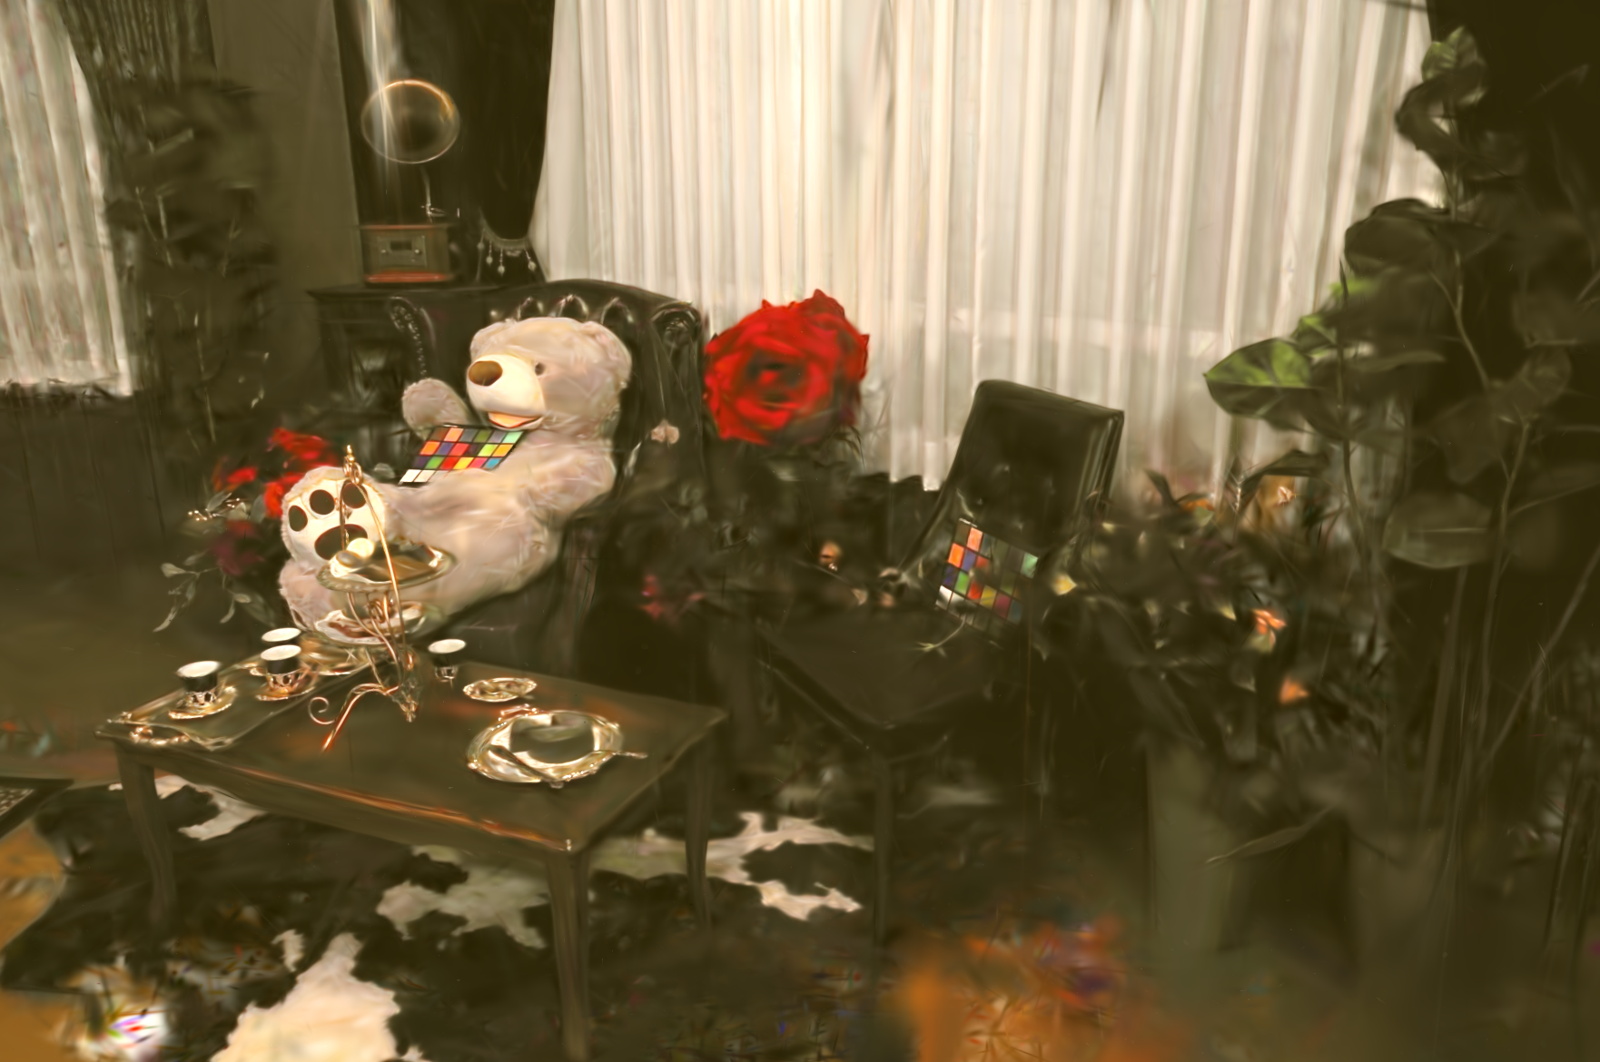
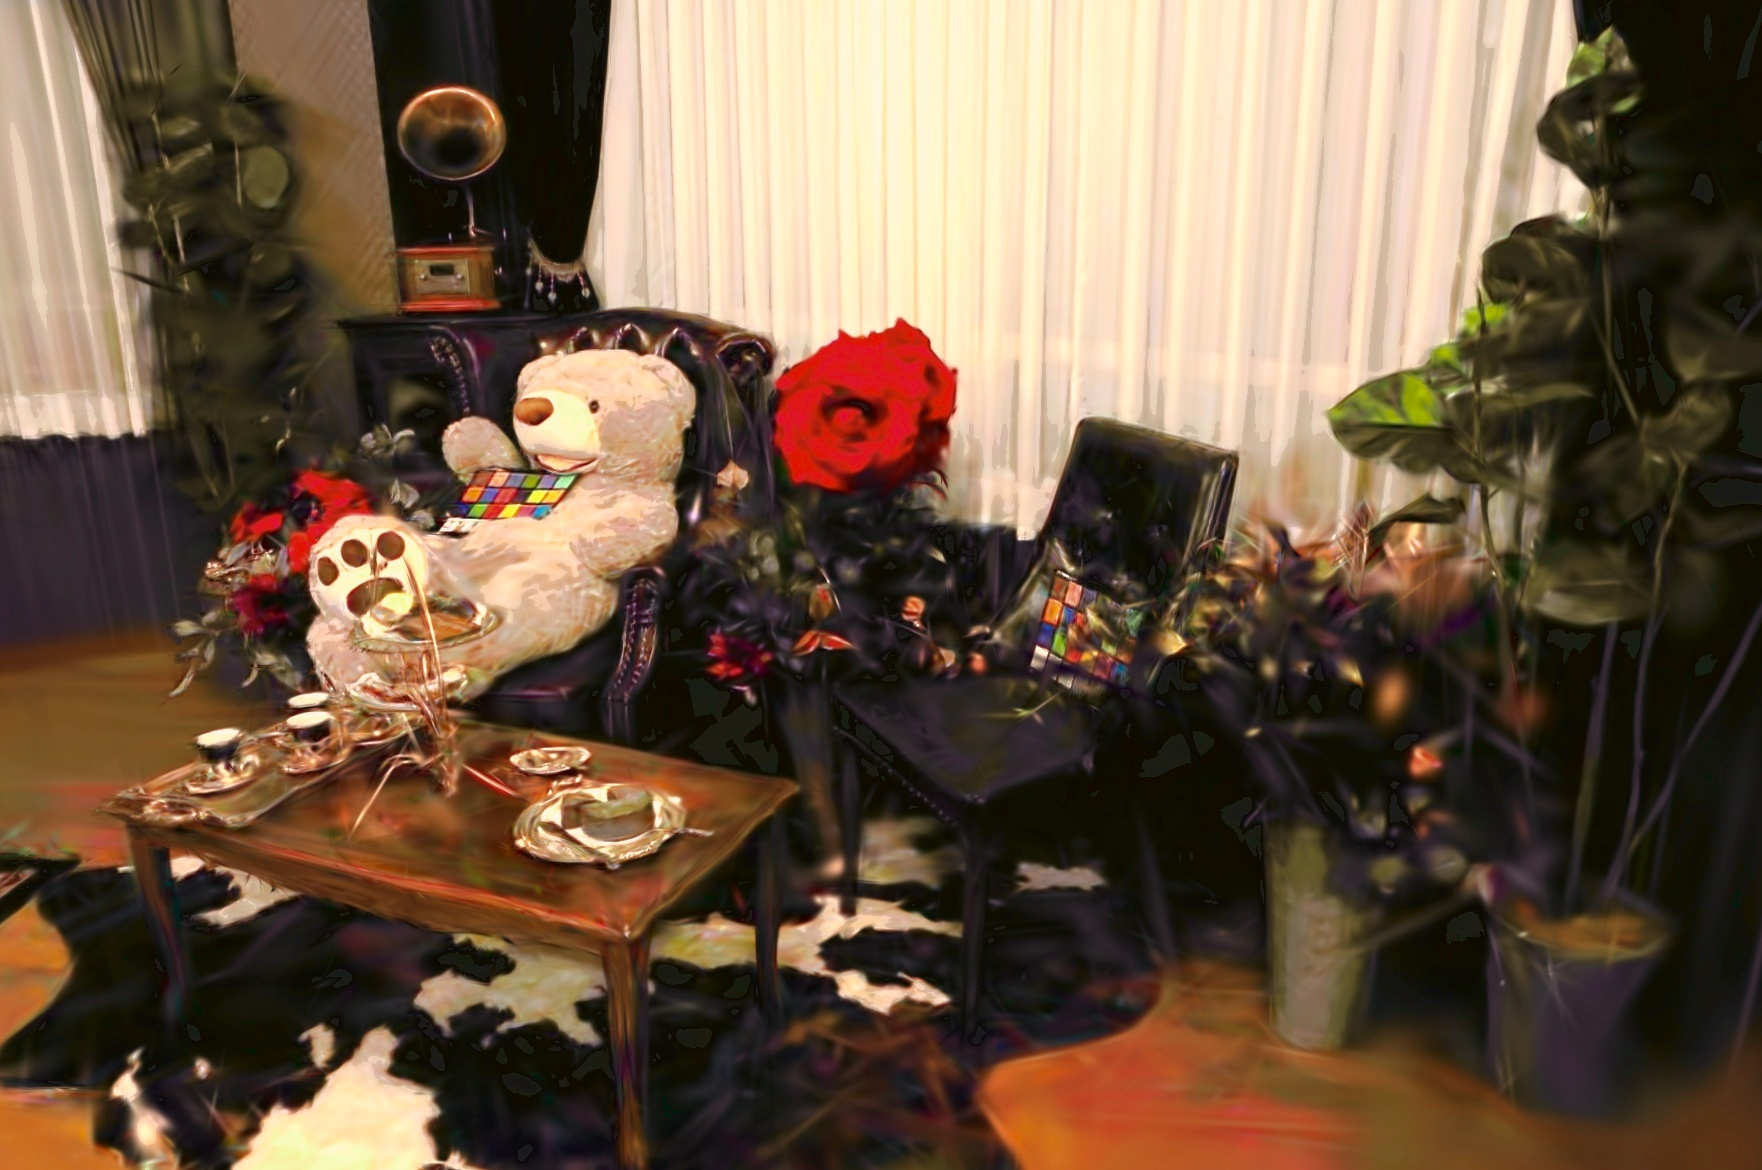
small change

diff --git a/README.md b/README.md
@@ -10,6 +10,8 @@
 | --- | --- |
 | ![Test GT](docs/readme_assets/comparison/test_gt.png) | ![Test Render](docs/readme_assets/comparison/test_render.png) |
 
+Test set result: `PSNR=18.954` `SSIM=0.7444` `LPIPS=0.3497`
+
 将下面 4 张图片放到 `docs/readme_assets/comparison/` 后，上面的四宫格会自动显示：
 
 - `train_gt.png`
